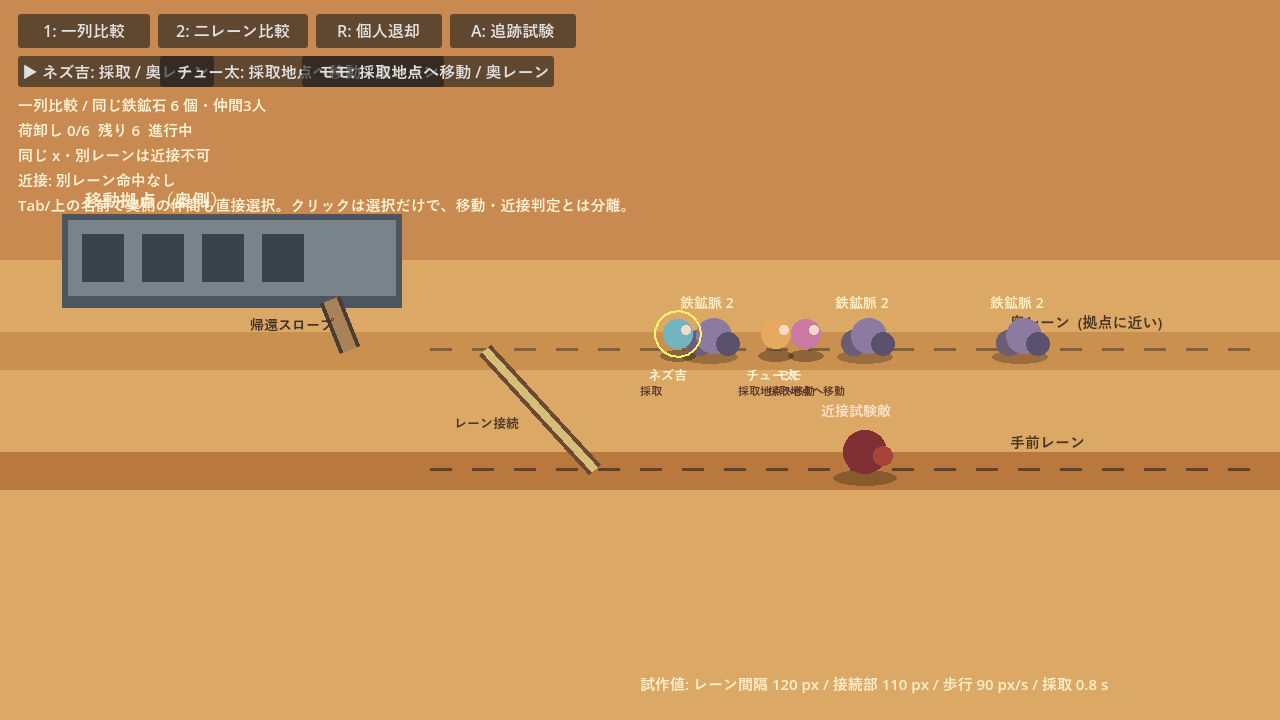
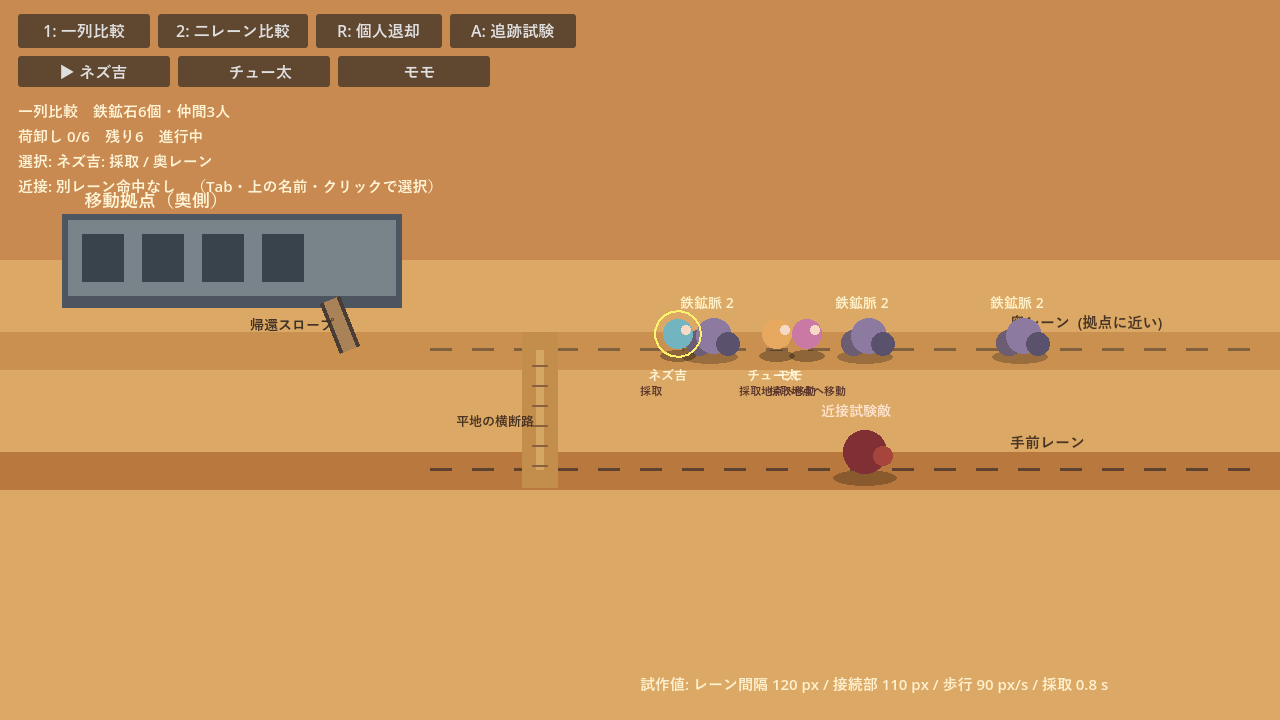
Integrate fixed two-lane routing prototype

Changed region(s): [[0.0, 0.0611, 0.5, 0.3056], [0.3438, 0.4889, 0.4688, 0.6722], [0.5625, 0.5194, 0.6562, 0.55]]

diff --git a/docs/2レーン採取試作_検証記録_2026-10-18.md b/docs/2レーン採取試作_検証記録_2026-10-18.md
@@ -1,67 +1,76 @@
 # 固定2レーン採取試作（2026-10-18）
 
-## 範囲と前提
+## 範囲
 
 - 作業先: `C:\Users\user\Documents\Codex\2026-10-18\task-3\desert_rats`
-- 試作ブランチ: `gpt/prototype-ground-two-lanes`（開始点 `5790ca34e059b667d7255a685d57877a1948409d`）
-- 実装は既存マップへ組み込まず、専用の `scenes/two_lane_prototype.tscn` に隔離した。拠点内の階層／横移動、移動拠点の走行・マップ、既存採取AIには変更を加えていない。
-- 拠点を画面奥（上側）に置き、屋外は固定の奥・手前2本の平面レーンだけで表す。自由な面状移動や3D化はしない。
+- 試作ブランチ: `gpt/prototype-ground-two-lanes`
+- 比較用シーン: `scenes/two_lane_prototype.tscn`
+- 通常の拠点内階層・横移動、移動拠点の走行・マップ、資源量・報酬は変更しない。
+- 地上は自由面移動や3Dではなく、奥・手前の固定2レーンだけを使う。既存の拠点帰還スロープはそのまま使う。
 
-既存の `Worker` 移動・戦闘へ深度を直接追加すると基盤変更が大きくなるため、まず比較可能な独立試作に留めた。
-
-## 仮パラメータと操作
+## 比較条件と仮値
 
 | 項目 | 値 |
 | --- | --- |
-| 奥／手前レーン | Y=350 / 470（間隔 120 px） |
-| レーン接続 | X=485..595、幅 110 px の固定接続部 |
-| 帰還 | 奥レーンの X=350 から固定スロープで後方拠点へ |
-| 歩行・採取 | 90 px/s・1個につき 0.8 s |
-| 搬送 | 1人あたり2個、鉄鉱石合計6個（各鉱脈2個） |
+| 奥/手前レーン | Y=350 / Y=470（間隔120 px） |
+| レーン横断 | X=540 の同一平地上にある縦の固定横断路（長さ120 px） |
+| 帰還 | 奥レーン X=350 から既存方式の固定スロープ |
+| 歩行/採取 | 90 px/s / 1個あたり0.8秒 |
+| 資源 | 各比較とも総量6個、各鉱脈2個 |
 | 仲間 | ネズ吉、チュー太、モモ（3人） |
 
-- `1`: 一列比較（全鉱脈を奥レーンに置く）
-- `2`: 二レーン比較（奥・手前・奥に同じ3鉱脈を置く）
-- `R`: ネズ吉だけを個人退却させる
-- `A`: ネズ吉に手前レーンの敵への追跡を指示する
-- `Tab` または上部の仲間名: 手前の個体の後ろにいる仲間を含めて選択する。クリックは選択だけで、採取移動・近接判定とは分離した。
+`1` は一列比較、`2` は固定2レーン比較、`R` は選択仲間の個人退却、`A` は別レーンの敵への追跡試験である。Tab・上部の仲間名・クリックで奥側を含む個体を選択できる。クリックは選択だけで、移動と近接命中の判定から分離している。
 
-描画は奥レーンを先、手前レーンを後に描き、各仲間・敵・鉱脈の足元影とレーン名を表示する。レーン変更は固定接続部への歩行のみで行い、フレーム内の瞬間移動はしない。仲間は鉱脈予約と同一レーンの最小間隔を使い、対向衝突による渋滞を作らない。
+レーン変更は、同じレーンを固定横断路まで歩き、そこで縦に横断してから次の目的地へ進む。斜め抜け・瞬間移動・橋・斜路は使わない。レーン、描画順、足元影で奥/手前を区別する。描画UIは仲間名を短いボタンにし、選択中の状態は専用の4行表示へ分離して、拠点ラベルと重ならないことを実描画で確認した。
 
-## 検証
+## 模型比較の検証
 
-Godot `4.7.2.stable.official.ed1daf0bf` を、既存セーブと切り離した `APPDATA` で実行した。
+隔離 APPDATA / Godot `4.7.2.stable.official.ed1daf0bf` で `res://tools/test_two_lane_prototype.gd` を実行し、以下が成功した。
 
-`res://tools/test_two_lane_prototype.gd` は以下をすべて成功した。
+- 一列・二レーンとも、同じ鉄鉱石6個を採取、運搬、スロープ帰還、荷卸しまで完了する。
+- 比較条件の総量・残量が一致する。一列は接続なし、二レーンは固定横断路を通る。
+- 横断路は同一X座標で、レーン変更の1フレーム移動は許容範囲内。同一レーンの仲間は重ならない。
+- 同じXでも別レーンの近接攻撃は命中しない。追跡は横断路を経て同じレーンになってから命中する。
+- 個人退却は横断路とスロープを経由して帰還し、退却中に採取・再戦しない。
 
-- 一列／二レーンとも、同じ鉄鉱石6個を採取、搬送、スロープ帰還、荷卸しまで完走する。
-- 総量・残量が一致する。一列は接続なし、二レーンは固定接続部を実際に通る。
-- レーン変更時の最大1フレーム移動は歩幅以内。同一レーンの仲間は重ならない。
-- 同じX座標でも別レーンの近接攻撃は命中しない。追跡は接続部を経由して同一レーンになった後だけ命中する。
-- 個人退却は固定接続部／スロープを経由して拠点へ戻り、退却中に採取・再戦へ戻らない。
+比較の計測値は一列 `20.65 s`、二レーン `20.65 s`、最小仲間間隔はそれぞれ `30.0 px` と `25.6 px` だった。この小さな同数配置では速度上の優劣を演出せず、確認対象は読みやすさ、横断経路、帰還時の詰まりに限る。
 
-比較条件の計測値は、一列 `20.65 s`、二レーン `20.65 s`、最小仲間間隔はそれぞれ `30.0 px` と `27.5 px` だった。この少数・同配置の条件では採取効率を上げても下げてもおらず、今回確認できたのは主に奥行きの読みやすさと、レーンをまたぐ行動経路である。報酬・資源量で有利に見せる調整はしていない。
-
-実描画（OpenGL Compatibility）で、比較状態と個人退却状態を保存した。OSの実入力自動化は行わず、ボタン・選択UIは描画確認、行動はViewport自動試験で確認した。
+OpenGL Compatibility 実描画（OS入力は使わず、Viewport/自動操作による状態確認）を保存した。
 
 - `docs/two-lane-prototype-evidence-2026-10-18/one-lane.png`
 - `docs/two-lane-prototype-evidence-2026-10-18/two-lanes.png`
 - `docs/two-lane-prototype-evidence-2026-10-18/two-lanes-retreat.png`
 
-既存回帰では、Windows 4.7.2で `field_operations` と `manual_combat` を個別実行して成功した。core一括は `import`、`journey`、`journey_ui`、`journey_flow`、`town` まで成功したが、実行ホストが `town_flow` 実行中のおよそ30秒でプロセスを終了させた。`town_flow` 単独の再試行でも同じホスト側終了となったため、Windowsでのcore 63/63成功とは主張しない（テスト失敗の結果ではない）。
+## 既存Worker/CharacterAIへの最小接続試験
 
-その後、親指定の `c04407e29765bbfc57d3852a449577c934febc46`（後部被弾時だけの燃料漏れ修正）をこの試作ブランチへ競合なくマージした。マージ後に、二レーン試作の全自動試験、`field_operations`、`manual_combat`、およびOpenGL Compatibilityの比較画像生成を、すべて隔離APPDATAのGodot 4.7.2で再実行して成功した。
+`res://tools/test_two_lane_live_integration.gd` は模型AIではない。既存の `scenes/main.tscn`、`Worker`、`CharacterAI`、`GatherPoint`、`FieldOperations`、`Enemy` を使い、手前レーンに置いた1個の鉱脈を実際に処理する。
 
-## Notion確認
+試験fixtureだけが `Main` の `ground_lane_config` メタデータで固定レーンを有効にする。通常マップはこのメタデータを持たないため、既存の地上移動は従来どおりである。固定レーンが有効な時だけ `Worker` は横断路まで同じレーンを歩き、縦に横断後、帰還時には既存スロープの足元へ向かう。
 
-`docs/Notion参照索引.md` を入口に、2026-10-18 に関連する採用ページを確認した。採用済みなのは「仲間が自律的に採取・運搬・加工するループ」と「退却が採取・戦闘を中断する」方向性であり、レーン幅・移動時間・接続位置・衝突処理などの具体値は未決定だった。Notionの将来構想を実装済みとは扱わず、本試作の実装範囲は上記専用シーンと自動試験に限る。
+隔離 APPDATA / Godot 4.7.2 で次の10項目が成功した。
 
-## 起動と制約
+- 実際の `CharacterAI` が鉱脈を予約する。
+- 実際の `Worker` が採取・所持・既存スロープ経由の帰還・荷卸しまで完了する。
+- `FieldOperations` の納品数が増える。
+- レーン横断を固定X=820の平地横断路として往復記録する。
+- 実際の `CharacterAI` が攻撃命令を扱う。
+- 同じXでも別レーンの敵には、横断前の近接攻撃が当たらない。
+- 横断後には実際の近接命中が起きる。
+- 個人退却中はレーン横断と既存スロープ経由で帰還する。
+- 退却後に再攻撃・再採取しない。
 
-Godotで `scenes/two_lane_prototype.tscn` を開き、F6で起動する。コマンド例は次のとおり。
+これは既存基盤へ最小構成で載せられることの確認であり、通常マップへの展開ではない。全採掘地点への適用には、地形・セーブデータのレーン情報、敵を含む全エージェントの経路と衝突、深度を考慮した選択・命中、実OS入力での手動確認を別途設計・実装する必要がある。射撃・障害物・自由面移動・3D、資源量や報酬の増加は対象外である。
+
+## 回帰とNotion参照
+
+今回の変更前後に、隔離 APPDATA の Godot 4.7.2 で `field_operations` と `manual_combat` を実行して成功した。初回のcore一括実行は `import`、`journey`、`journey_ui`、`journey_flow`、`town` までは成功したが、`town_flow` の開始後約30秒で実行ホストが終了した。テスト失敗とは区別し、core 63/63成功とは扱わない。安全なバックグラウンド実行での再試行結果は、この記録へ追記する。
+
+`docs/Notion参照索引.md` を入口に、2026-10-18 に関連する採用ページを再確認した。採用済みの方向は「仲間が自律的に採取・運搬・帰還するループ」と「個人退却中の採取・戦闘の中断」である。一方、レーン数、横断位置、移動時間、衝突処理は未決定であり、この試作の仮値を製品仕様とは扱わない。Notionの記載だけで実装済みとは判定せず、上記のコードと検証結果を根拠とする。
+
+## 起動
+
+Godotで `scenes/two_lane_prototype.tscn` を開き、F6で起動する。コマンド例:
 
 ```powershell
 & '<Godot 4.7.2 console exe>' --path . --editor scenes/two_lane_prototype.tscn
 ```
-
-これは既存採取地点の実装へはまだ接続していない。射撃、地形障害物、複数接続点、実際のマウスによる背後個体の優先クリック、既存`Worker`／`CharacterAI`への統合は対象外である。
